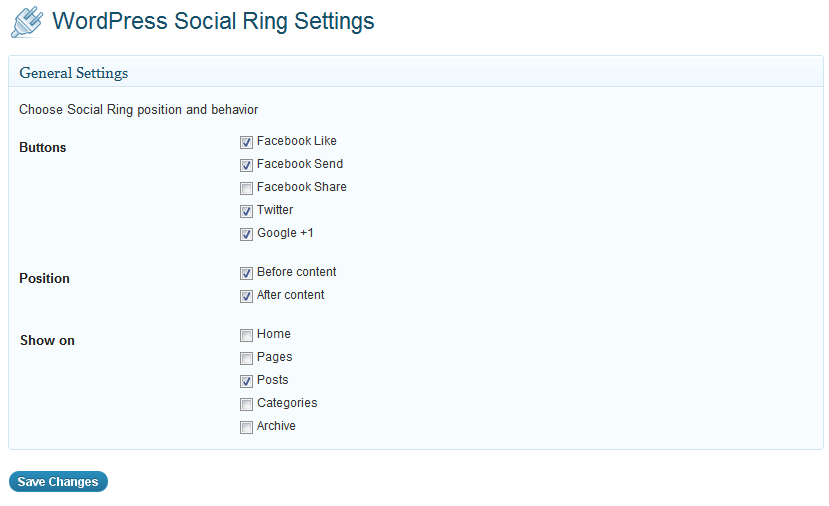
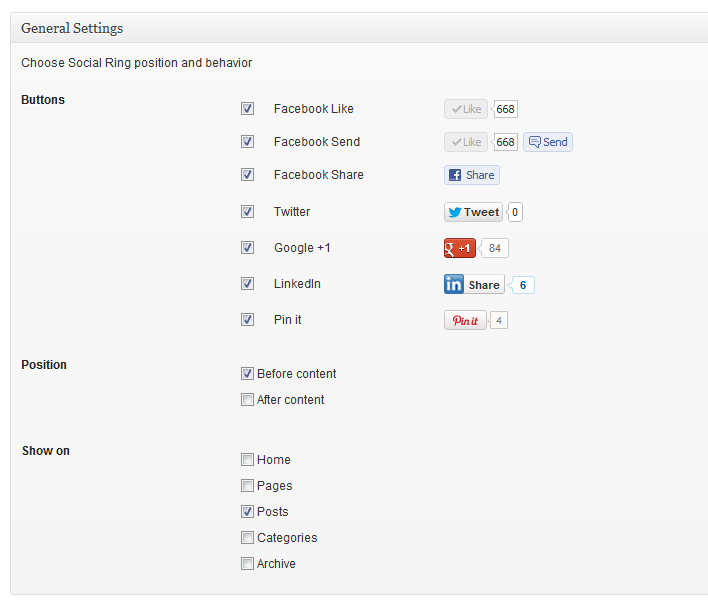
version 1.1.9
git-svn-id: https://plugins.svn.wordpress.org/wordpress-social-ring/trunk@614490 b8457f37-d9ea-0310-8a92-e5e31aec5664

diff --git a/admin/admin.php b/admin/admin.php
@@ -6,7 +6,7 @@ function wp_social_ring_setting_page() {
 	
 	<div class="wrap">
 		<?php screen_icon('plugins'); ?>
-		<h2><?php _e('WordPress Social Ring Settings',WP_SOCIAL_RING); ?></h2>
+		<h2><?php _e('Social Network Settings',WP_SOCIAL_RING); ?></h2>
 		<div id="wp-social-ring">
 			<div class="postbox-container" style="width:70%;">
 				<form action="options.php" method="post">
@@ -41,12 +41,24 @@ function wp_social_ring_setting_page() {
 				
 				</form>
 			</div>
+			
 			<div class="postbox-container" style="margin-left:15px;">
-				<div>
-					<a target="_blank" href="<?php _e('http://en.altervista.org/create-free-blog.html?ref=socialring',WP_SOCIAL_RING); ?>">
-								<img alt="<?php _e('Create your free blog!');?>" title="<?php _e('Create your free blog!');?>" src="<?php echo WP_SOCIAL_RING_URL; ?>/admin/images/altervista.gif" height="300" width="180" />
-					</a>
+				<div class="postbox">
+					<h3><?php _e('Help', WP_SOCIAL_RING); ?></h3>
+					<ul style="list-style:circle; padding:10px 0 10px 30px;">
+						<li><a target="_blank" href="http://wordpress.altervista.org/wordpress-social-ring/faq/">FAQ</a></li>
+						<li><a target="_blank" href="http://wordpress.org/support/plugin/wordpress-social-ring">Forum</a></li>
+					</ul>
 				</div>
+				<div class="postbox">
+					<h3><?php _e('News', WP_SOCIAL_RING); ?></h3>
+					<ul style="list-style:circle; padding:10px 0 10px 30px;">
+						<li><a target="_blank" href="http://wordpress.altervista.org/wordpress-social-ring-1-1-9/">WordPress Social Ring 1.1.9</a></li>
+						<li><a target="_blank" href="http://wordpress.altervista.org/wordpress-social-ring-1-1-2-shortcode/">WordPress Social Ring 1.1.2</a></li>
+						<li><a target="_blank" href="http://wordpress.altervista.org/wordpress-social-ring-1-1-template-tag-and-social-widget/">WordPress Social Ring 1.1.1</a></li>
+					</ul>
+				</div>
+				<?php if(strpos($_SERVER['HTTP_HOST'], 'altervista') == false && strpos($_SERVER['HTTP_HOST'], 'giallozafferano') == false) { ?>
 				<div class="postbox" style="min-width:180px !important;margin-top:5px;text-align:center;padding: 8px 0;">
 					<form action="https://www.paypal.com/cgi-bin/webscr" method="post">
 						<input type="hidden" name="cmd" value="_s-xclick">
@@ -56,7 +68,14 @@ function wp_social_ring_setting_page() {
 						<img alt="" border="0" src="https://www.paypalobjects.com/it_IT/i/scr/pixel.gif" width="1" height="1">
 					</form>
 				</div>
+				<div style="text-align:center">
+					<a target="_blank" href="<?php _e('http://en.altervista.org/create-free-blog.html?ref=socialring',WP_SOCIAL_RING); ?>">
+								<img alt="<?php _e('Create your free blog!');?>" title="<?php _e('Create your free blog!');?>" src="http://im.altervista.org/wordpress/images/promo.gif" height="300" width="180" />
+					</a>
+				</div>
+				<?php } ?>
 			</div>
+			
 		</div>
 	</div>
 	<?php
@@ -252,8 +271,8 @@ function wp_social_ring_validate_options( $input ) {
 
 add_action('admin_menu', 'register_social_ring_admin_menu');
 function register_social_ring_admin_menu() {
-
-	$page = add_menu_page(__('Social Ring settings',WP_SOCIAL_RING),__('Social Ring',WP_SOCIAL_RING),'manage_options',WP_SOCIAL_RING,WP_SOCIAL_RING.'_setting_page',plugins_url('/images/av-16x16.png',__FILE__));
+	
+	$page = add_options_page(__('Social Network', WP_SOCIAL_RING), __('Social Network', WP_SOCIAL_RING), 'manage_options', 'wp_social_ring', 'wp_social_ring_setting_page');
 	add_action('admin_print_styles-' . $page, 'add_wp_social_ring_css_js');
 
 }

diff --git a/includes/library.php b/includes/library.php
@@ -1,29 +1,5 @@
 <?php
 
-function social_ring_add_opengraph_namespace( $output ) {
-	return $output.' xmlns:og="http://ogp.me/ns#" xmlns:fb="http://www.facebook.com/2008/fbml"';
-}
-		
-function social_ring_add_opengraph_meta() {
-	
-	global $post;
-	
-	if (is_singular()) {
-		echo "\n\n<!-- Social Ring: Facebook Open Graph Meta Start -->\n";
-		echo "<meta property=\"og:url\" content=\"".esc_attr(get_permalink($post->ID))."\" />\n";
-		echo "<meta property=\"og:title\" content=\"".esc_attr( strip_tags( stripslashes($post->post_title)))."\" />\n";
-		echo "<meta property=\"og:type\" content=\"article\" />\n";
-		echo "<meta property=\"og:site_name\" content=\"".esc_attr(get_bloginfo('name'))."\" />\n";
-		echo "<meta property=\"og:description\" content=\"".esc_attr(social_ring_make_excerpt($post))."\" />\n";
-		$image = social_ring_get_first_image();
-		if ( $image != '' ) {
-			echo "<meta property=\"og:image\" content=\"".esc_attr( $image )."\" />\n";
-		}
-		echo "<!-- Social Ring: Facebook Open Graph Meta End -->\n\n";
-	}
-	
-}
-
 function social_ring_get_first_image() {
   
 	global $post, $posts;

diff --git a/wp-social-ring.php b/wp-social-ring.php
@@ -3,7 +3,7 @@
 Plugin Name: WordPress Social Ring (Facebook Like, Google +1, ReTweet and Pin It)
 Description: Let visitors share posts/pages on Facebook, Twitter and Google+. From admin page you can choose which button display: Facebook Like, Facebook Send, Facebook Share, Google +1 and Twitter.
 Author: Niccol&ograve; Tapparo
-Version: 1.1.8
+Version: 1.1.9
 Author URI: http://wordpress.altervista.org/
 Plugin URI: http://wordpress.altervista.org/en/tag/wordpress-social-ring-en/
 */
@@ -26,8 +26,6 @@ if(is_admin()) {
 	include WP_SOCIAL_RING_PATH.'/admin/admin.php';
 }
 
-add_filter('language_attributes','social_ring_add_opengraph_namespace');
-add_action('wp_head', 'social_ring_add_opengraph_meta');
 add_action('wp_head', 'social_ring_add_css');
 add_filter('the_content', 'social_ring_add_sharing');
 add_action('wp_footer', 'social_ring_add_js');
